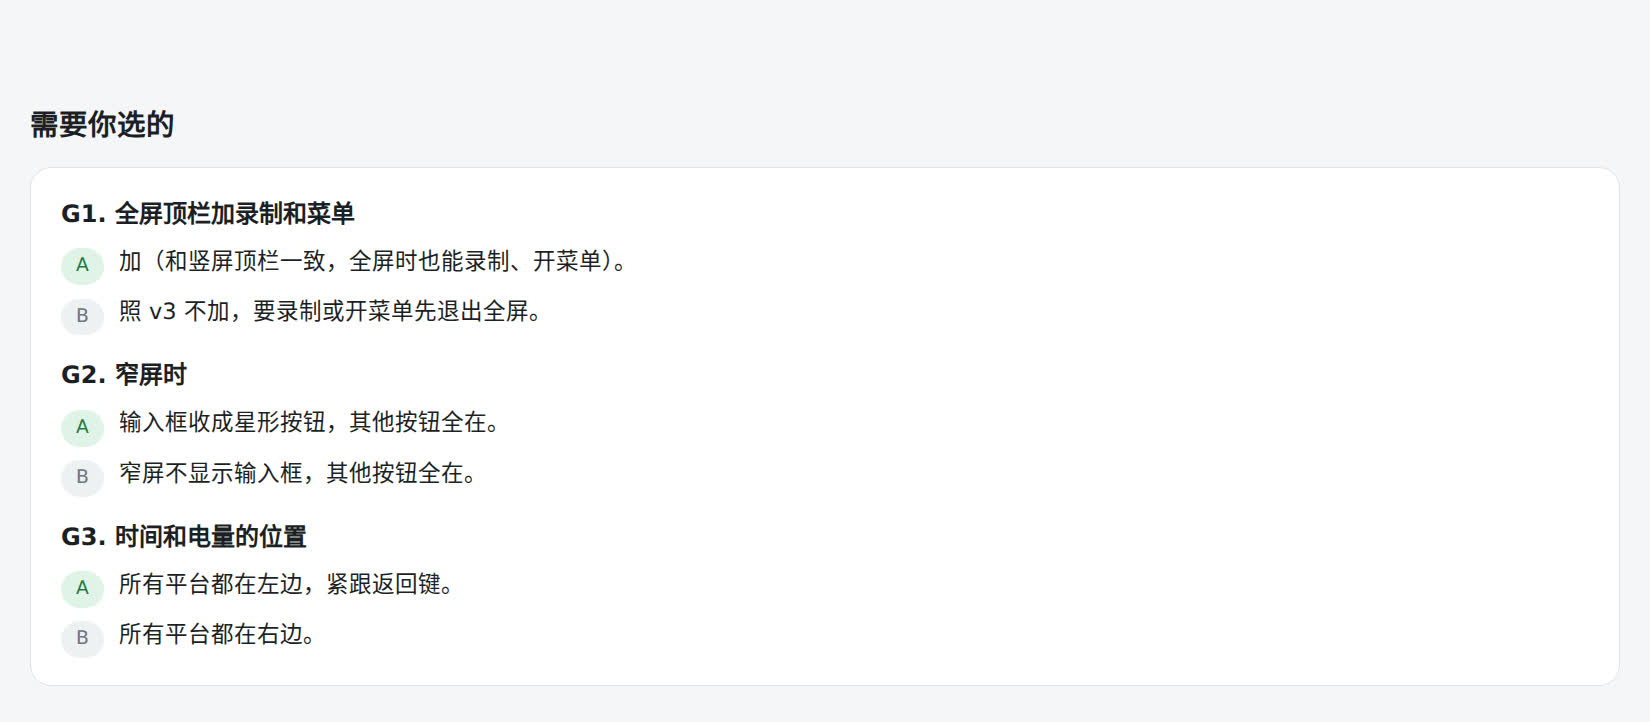
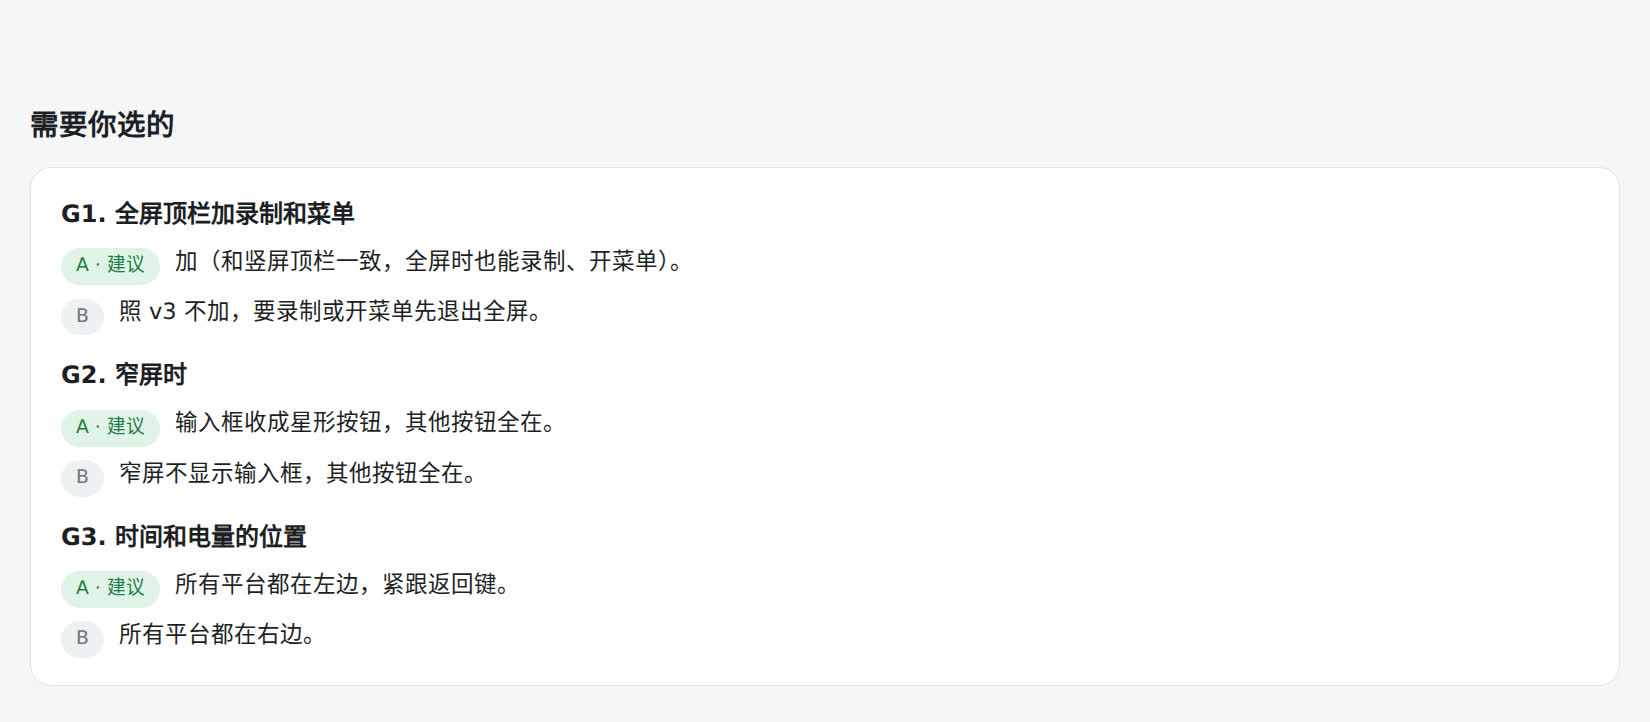
tools(ui): review page marks the suggested option

Changed region(s): [[0.0618, 0.3352, 0.4018, 0.3961], [0.0618, 0.5485, 0.34, 0.6399], [0.0618, 0.7922, 0.3091, 0.8532]]

diff --git a/tools/ui/mock/page.py b/tools/ui/mock/page.py
@@ -23,7 +23,7 @@ Spec (JSON; strings may contain HTML):
     {"h": "v3 的问题", "problems": [["F1", "问题", "位置"]]},
     {"h": "改了什么", "changes": [{"id": "c1", "type": "保留|修改|增强|去掉", "text": "..."}]},
     {"h": "每个按钮是干什么的、怎么用", "figs": [...], "usage": [["1", "控件", "怎么用"]]},
-    {"h": "需要你选的", "choices": [{"id": "G1", "title": "...", "options": ["建议：...", "另一种：..."]}]},
+    {"h": "需要你选的", "choices": [{"id": "G1", "title": "...", "options": ["A，建议的做法", "B，另一种"]}]},
     {"h": "性能要点", "list": ["..."]},
     {"h": "...", "table": {"hdr": ["..."], "rows": [["..."]]}}
   ]
@@ -92,7 +92,7 @@ def section(sec, base):
         cards = ''
         for ch in sec['choices']:
             opts = ''.join(
-                f'<div class="opt"><span class="tag {"add" if i == 0 else "keep"}">{chr(65 + i)}</span><span>{o}</span></div>'
+                f'<div class="opt"><span class="tag {"add" if i == 0 else "keep"}">{chr(65 + i)}{" · 建议" if i == 0 else ""}</span><span>{o}</span></div>'
                 for i, o in enumerate(ch['options']))
             cards += f'<div class="choice"><h3>{esc(ch["id"])}. {ch["title"]}</h3>{opts}{rv_pick(ch["id"], len(ch["options"]))}</div>'
         out.append(f'<div class="card choices">{cards}</div>')
